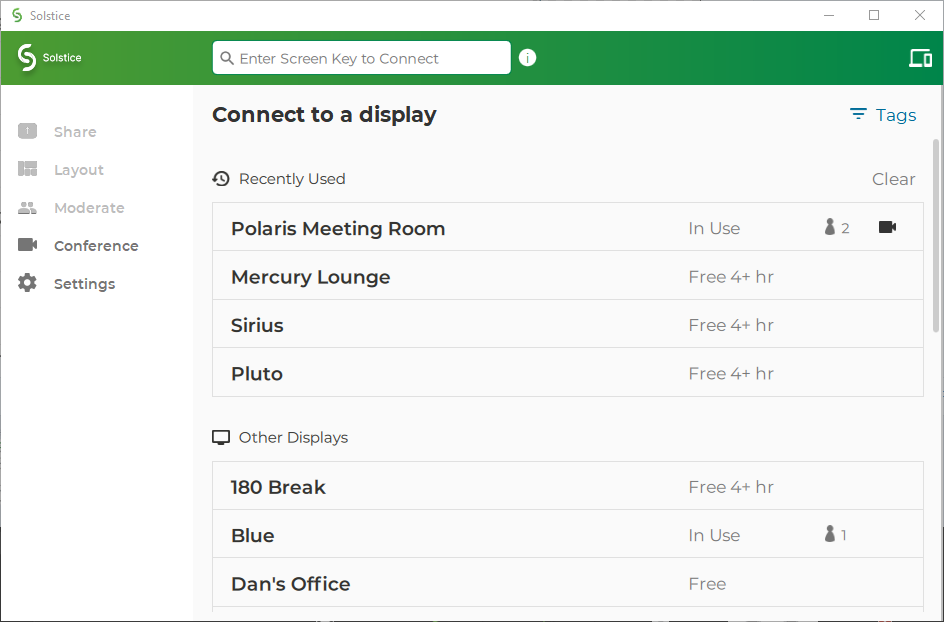
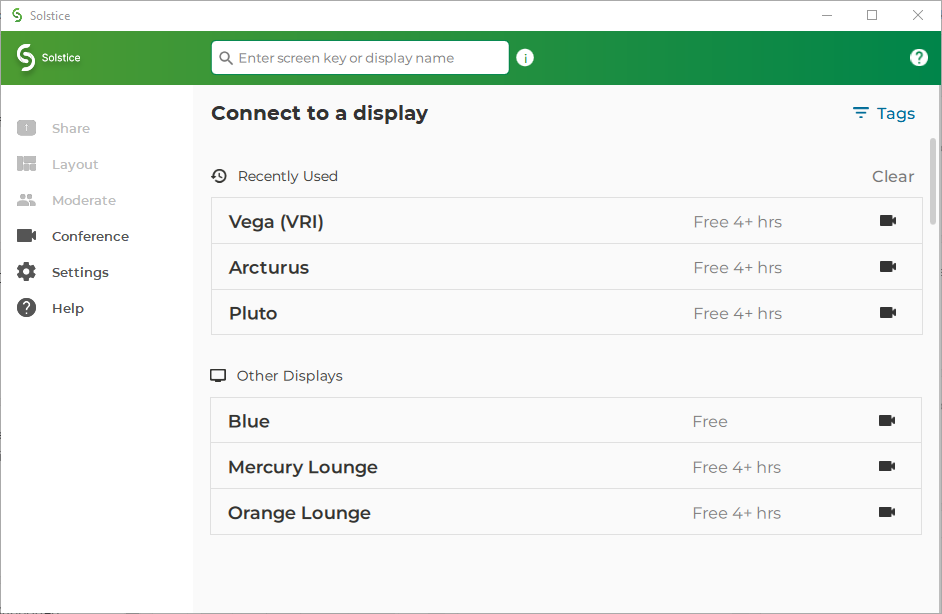
Updates and new screeshots for user app 5.5 changes in Using Solstice topics, new section for in-app help resources

diff --git a/Content/Topics/User-Sharing-Content.htm b/Content/Topics/User-Sharing-Content.htm
@@ -13,6 +13,12 @@
         <MadCap:snippetBlock src="../Resources/Snippets/howto_UserShareContentLaptop.flsnp" />
         <h3>How to Share Content Using the Solstice App on a Mobile Device</h3>
         <MadCap:snippetBlock src="../Resources/Snippets/howto_UserShareContentMobile.flsnp" />
+        <h3 MadCap:conditions="Default.5-5_Release">How to Find Help in the Mersive Solstice App</h3>
+        <p MadCap:conditions="Default.5-5_Release">New in-app resources to help users get the most out of their Solstice experience have been added in version 5.5 of the Mersive Solstice app on Windows and macOS:</p>
+        <ul MadCap:conditions="Default.5-5_Release">
+            <li><b>Contextual help</b> can be opened by clicking the help (question mark) icon in the upper right of the app window. A pop-out window appears with hints about what can be done from that area of the app. This information changes to match your location as you move to different sections in the navbar.<p><img src="../Resources/Images/ex_UserSharingContextualHelp.png" style="width: 80%;" /></p><p>Click the <b>X</b> to close the window, or follow the <b>Need more help?</b> link for more information about the topic.</p></li>
+            <li><b>Help articles</b> about the most common tasks in the Mersive Solstice app can be found by going to <b>Help</b> (question mark) in the left navbar, or following a link from the contextual help window. Most articles contain animated examples that show simple demonstrations of the tasks being described. Animations can be paused and resumed as needed. <p><img src="../Resources/Images/ex_UserSharingHelpArticle.png" style="width: 60%;" /></p><p>Click <b>Learn more</b> at the end an article to find more in-depth documentation on the topic.</p></li>
+        </ul>
         <h3>How to End Your Meeting and Disconnect from Solstice</h3>
         <p>When you are ready to finish your collaboration session, disconnect from Solstice.  There are a number of ways to disconnect from a Solstice display:</p>
         <MadCap:snippetBlock src="../Resources/Snippets/howto_UserSolsticeAppDisconnect.flsnp" />

diff --git a/Content/Topics/User-Solstice-User-App.htm b/Content/Topics/User-Solstice-User-App.htm
@@ -11,9 +11,11 @@
             <li>Download the app directly from the Solstice Pod by visiting the URL shown on the Solstice display. </li>
         </ul>
         <p MadCap:conditions="Default.5-5_Exclude">
-            <img src="../Resources/Images/ex_solsticeapp.png" style="width: 637px;height: 415px;" />
+            <img src="../Resources/Images/ex_solsticeapp.png" style="width: 60%;height: auto;" />
         </p>
-        <p MadCap:conditions="Default.5-5_Release">[Screenshot: Layout tab w/ content shared (photos) showing new UI (help icon)]</p>
+        <p MadCap:conditions="Default.5-5_Release">
+            <img src="../Resources/Images/ex_UserAppLayoutPhotos.png" style="width: 60%;" />
+        </p>
         <MadCap:snippetBlock src="../Resources/Snippets/info_SolsticeInstallAppConfPermissions.flsnp" />
         <h3>Supported Operating Systems </h3>
         <p>The Mersive Solstice app is supported on laptops, tablets, and mobile devices running the follow operating systems. Operating systems marked with an asterisk (*)&#160;support Solstice Conference capabilities. </p>
@@ -33,7 +35,7 @@
         <h3>Download the App Directly from Solstice</h3>
         <MadCap:snippetBlock src="../Resources/Snippets/howto_UserAppDirectDownload.flsnp" />
         <h3>Change Your Mersive Solstice App Settings</h3>
-        <p>Update the Solstice settings on your device by opening the Mersive Solstice app and going to <b>Settings</b>. Changes to app settings are immediately saved. Find more information about each setting option below: </p>
+        <p>Update the Solstice settings on your device by opening the Mersive Solstice app and going to <b>Settings</b> in the left navbar. Changes to app settings are immediately saved. Find more information about each setting option below: </p>
         <h4 style="font-weight: bold;">General
         </h4>
         <ul>
